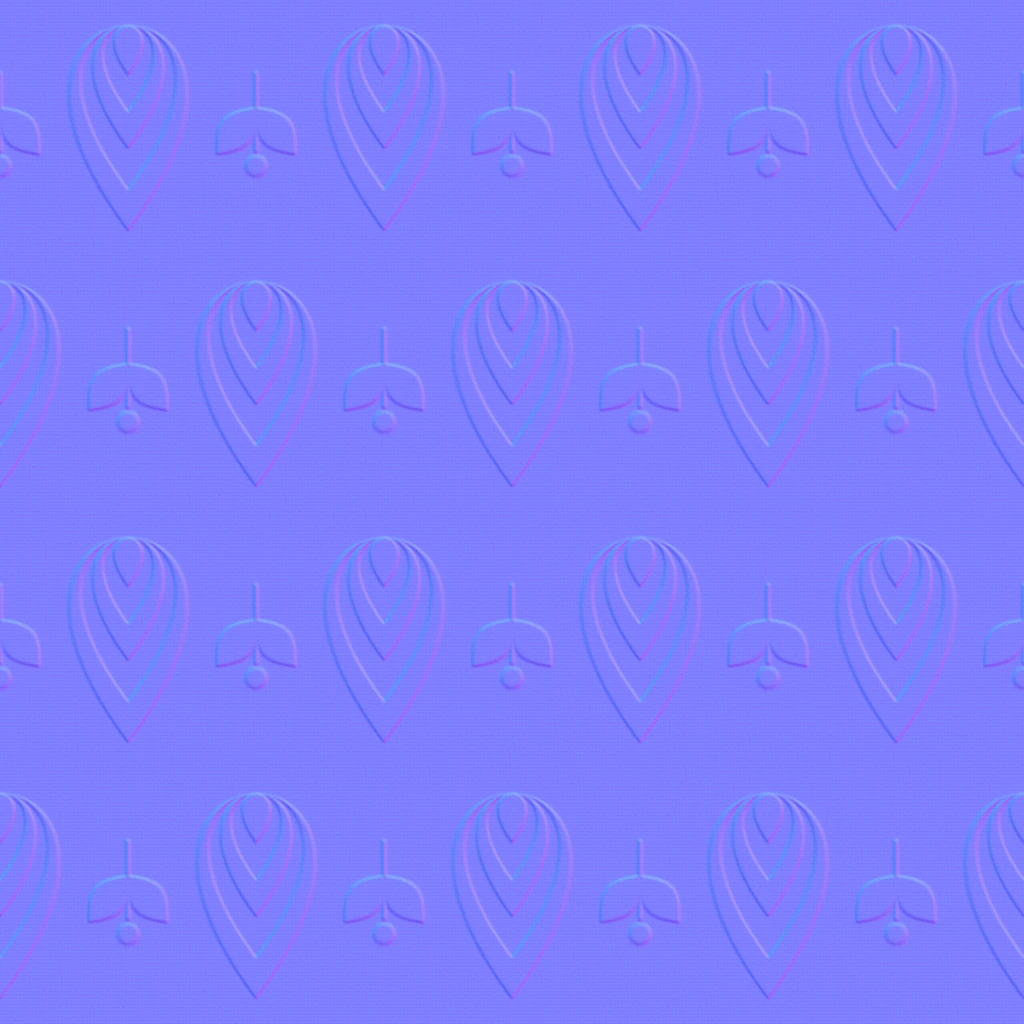
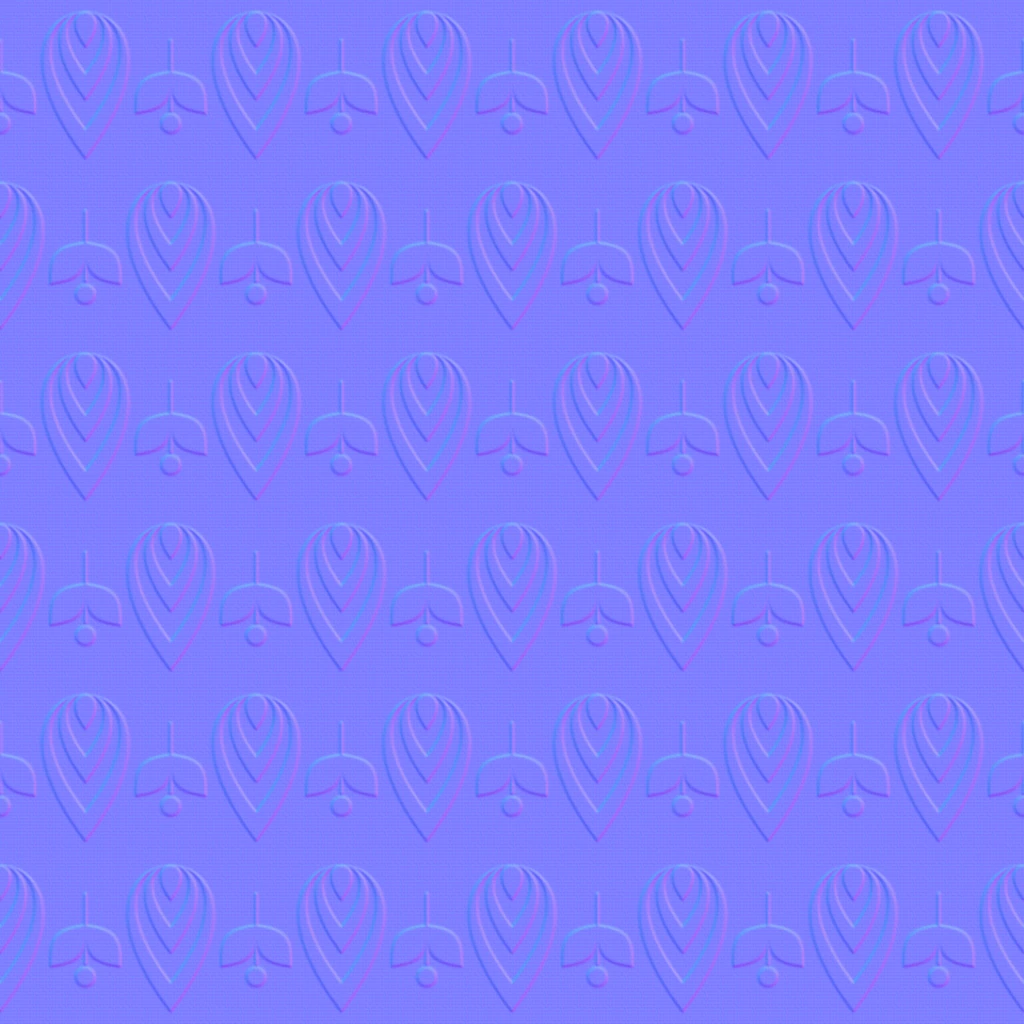
Portraits round 169: the court's figured silk is small, close and less yellow
The figure of the court's silk was large and bright beside the reference's
gowns: 5.5 cm from palmette to palmette, in a gold far off its ground.

- silk_figure.py draws six palmettes on the cloth's 22 cm for four (3.7 cm
  apart), each a little broader and taller, so the figure covers 27 in a
  hundred of the cloth for 20. The two images are written anew.
- The stage shows the gold by a share (cloth.figured.cover, 0.7), the rest
  the ground's colour. The stage's test holds the new line.
- Tried and not kept: three ways to take the crease out of a lady's gown
  on the chest (docs/PORTRAITS.md has them), a broader leaf, a thinner
  figure, the gold at 0.5.

PLACEHOLDER by eye beside two reference gowns. The gauntlet is 22 of 22,
each line as before.

Claude-Session: https://claude.ai/code/session_01BMQBzijafX7vXxEkKbXXMS

diff --git a/tests/portrait.test.ts b/tests/portrait.test.ts
@@ -901,6 +901,7 @@ describe('portraits', { timeout: 20_000 }, () => {
     // image named `_figured`): the figure is the image's covering, and where the covering is less than 1 the
     // stage draws the gold's colour in place of the dye's, with the gold's roughness and share of metal. The
     // rest of the cloth is the plain silk's.
+    // (round 169) Not all of the figure is gold: `cover` of it, the rest the ground between the gold's threads.
     const of = (tex: string) => ({ rough: 0.5, metal: 0, double: false, tex, nmap: '', pos: new Float32Array(9), col: new Float32Array(9).fill(0.5), uv: new Float32Array(6), nrm: new Float32Array(9) });
     const drawn = (tex: string, profile = ENGLAND_1356) => {
       const m = surfaceMaterials(of(tex), null, null, profile)[0]!;
@@ -912,7 +913,9 @@ describe('portraits', { timeout: 20_000 }, () => {
     const k = ENGLAND_1356.cloth!;
     expect([figured.m.roughness, figured.m.color.r, figured.m.ior]).toEqual([plain.m.roughness, plain.m.color.r, plain.m.ior]);
     expect(plain.code).toBe(ShaderLib.physical.fragmentShader);
-    expect(figured.code).toContain('silkFigure = 1.0 - sampledDiffuseColor.a;');
+    expect(figured.code).toContain(`silkFigure = ( 1.0 - sampledDiffuseColor.a ) * ${k.figured.cover.toFixed(3)};`);
+    expect(k.figured.cover).toBeGreaterThan(0.5);
+    expect(k.figured.cover).toBeLessThan(1);
     expect(figured.code).toContain(`vec3( ${k.figured.gold.map(c => c.toFixed(3)).join(', ')} )`);
     expect(figured.code).toContain(`roughnessFactor = mix( roughnessFactor, ${k.figured.rough.toFixed(3)}, silkFigure );`);
     expect(figured.code).toContain(`metalnessFactor = mix( metalnessFactor, ${k.figured.metal.toFixed(3)}, silkFigure );`);

diff --git a/src/portrait/profile.ts b/src/portrait/profile.ts
@@ -88,8 +88,11 @@ export interface StageProfile {
    *  As `cap.light` is for hair. `silk` (round 150: a cloth whose image is named `_silk`): how many times lighter
    *  it is drawn, its roughness and its "specular" (wool and linen: 0.95 and 0.15, a matt cloth). `figured`
    *  (round 156: a silk whose image is named `_figured`): the colour of the gold thread its figure is woven of
-   *  (in linear light, as it is drawn: not multiplied by `silk.tone`'s dye), its roughness and its share of metal. */
-  cloth: null | { wool: number; linen: number; silk: { tone: number; rough: number; specular: number }; figured: { gold: [number, number, number]; rough: number; metal: number } };
+   *  (in linear light, as it is drawn: not multiplied by `silk.tone`'s dye), how much of the figure is that gold
+   *  and not the ground showing between the gold's threads (`cover`, round 169: with all of it gold the figure
+   *  lay on the silk as printed, one bright yellow on every dye; the reference's gold is nearer its ground.
+   *  PLACEHOLDER, by eye), its roughness and its share of metal. */
+  cloth: null | { wool: number; linen: number; silk: { tone: number; rough: number; specular: number }; figured: { gold: [number, number, number]; cover: number; rough: number; metal: number } };
   /** Hair cards, the round strands of a plait and the locks of a head's hair: roughness, "specular", anisotropy
    *  of the glint. */
   cards: { rough: number; specular: number; anisotropy: number };

diff --git a/src/portrait/materials.ts b/src/portrait/materials.ts
@@ -194,13 +194,14 @@ diffuseColor.rgb = mix( vec3( dot( diffuseColor.rgb, vec3( 0.2126, 0.7152, 0.072
 
 /** (round 156) A figured silk (an image named `_figured`, tools/portrait/pipeline/silk_figure.py): where the
  *  image's covering is less than 1 a second thread lies on the cloth, gold. There the cloth has the gold's colour
- *  in place of its dye's, under the weave's own shade, and the gold's roughness and share of metal. */
+ *  in place of its dye's, under the weave's own shade, and the gold's roughness and share of metal: by the share
+ *  `cover` (round 169), the rest of it the ground's. */
 function figuredLook(m: MeshPhysicalMaterial, p: StageProfile, k: NonNullable<StageProfile['cloth']>['figured']): void {
   m.onBeforeCompile = shader => {
     let code = swap(shader.fragmentShader, '#include <color_fragment>', `#include <color_fragment>
 float silkFigure = 0.0;
 #ifdef USE_MAP
-silkFigure = 1.0 - sampledDiffuseColor.a;
+silkFigure = ( 1.0 - sampledDiffuseColor.a ) * ${f(k.cover)};
 diffuseColor.rgb = mix( diffuseColor.rgb, vec3( ${k.gold.map(f).join(', ')} ) * sampledDiffuseColor.rgb, silkFigure );
 #endif`);
     code = swap(code, '#include <roughnessmap_fragment>', `#include <roughnessmap_fragment>\nroughnessFactor = mix( roughnessFactor, ${f(k.rough)}, silkFigure );`);

diff --git a/src/portrait/profile_1356.ts b/src/portrait/profile_1356.ts
@@ -373,7 +373,7 @@ export const ENGLAND_1356: StageProfile = {
     wool: 2.6,
     linen: 1,
     silk: { tone: 2.6, rough: 0.55, specular: 0.5 },
-    figured: { gold: [1.2, 0.8, 0.22], rough: 0.4, metal: 0.2 },
+    figured: { gold: [1.2, 0.8, 0.22], cover: 0.7, rough: 0.4, metal: 0.2 },
   },
   cards: { rough: 0.72, specular: 0.2, anisotropy: 0.3 },
   sheen: {

diff --git a/tools/portrait/pipeline/silk_figure.py b/tools/portrait/pipeline/silk_figure.py
@@ -18,11 +18,16 @@ import sys
 import numpy as np
 from PIL import Image
 src, src_n, out, out_n = sys.argv[1:5]
-# how many palmettes across the tile and how many rows up it (the tile is about 22 cm of cloth on a gown: 5.5 cm
+# how many palmettes across the tile and how many rows up it (the tile is about 22 cm of cloth on a gown: 3.7 cm
 # from palmette to palmette), a palmette's height and half breadth and a leaf's length as shares of that step,
 # and how far the figure stands over the ground (in the normal map's own measure)
-COLS, ROWS = (int(os.environ.get(k, d)) for k, d in (('COLS', '4'), ('ROWS', '4')))
-TALL, WIDE, LEAF, RISE = (float(os.environ.get(k, d)) for k, d in (('TALL', '0.8'), ('WIDE', '0.62'), ('LEAF', '0.24'), ('RISE', '0.5')))
+# (round 169) Six palmettes across and up the tile for four, each a little larger in its step and the sprig a
+# third larger (0.86, 0.68, 0.32 for 0.8, 0.62, 0.24): the figure covers 27 in a hundred of the cloth for 20. At
+# 5.5 cm from palmette to palmette four of them lay across a chest, far apart, as printed on the cloth; the
+# reference's figured gowns have six or seven small figures across a chest, close together. PLACEHOLDER, by eye
+# beside two of its gowns; no record read gives a repeat's measure.
+COLS, ROWS = (int(os.environ.get(k, d)) for k, d in (('COLS', '6'), ('ROWS', '6')))
+TALL, WIDE, LEAF, RISE = (float(os.environ.get(k, d)) for k, d in (('TALL', '0.86'), ('WIDE', '0.68'), ('LEAF', '0.32'), ('RISE', '0.5')))
 silk = np.asarray(Image.open(src).convert('RGBA')).astype(np.float32) / 255
 S = silk.shape[0]
 Z = 2 * S                                       # drawn at twice the size and halved: soft edges

diff --git a/docs/PORTRAITS.md b/docs/PORTRAITS.md
@@ -8466,6 +8466,77 @@ and after below), `runde168_maenner.png` (five more heads of the sample, two of 
 of the sample in the village's dress, after).
 
 
+**Round 169: the court's figured silk is small, close and less yellow** (2026-11-21). The court's sheet beside
+two figured gowns of the reference (the sheet of couples in half figure). There a gown has six or seven small
+figures across the chest, close together, in a gold that is not far from its ground: a woven cloth. Ours had
+four large palmettes across a chest, far apart, in one bright yellow on every dye: printed on.
+
+Looked at first, and not kept (below): a sharp crease in a lady's gown from the armpit to the breast.
+
+What was read. Nothing new. Round 156's records give no repeat's measure and no colour of the gold against its
+ground; the reference's two gowns were measured in the picture (below).
+
+What is changed.
+- **The figure is smaller and closer** (`tools/portrait/pipeline/silk_figure.py`): six palmettes across and up
+  the tile for four, 3.7 cm from palmette to palmette for 5.5, each a little larger in its step and the sprig
+  between them a third larger (`TALL` 0.86, `WIDE` 0.68, `LEAF` 0.32 for 0.8, 0.62, 0.24). The figure covers 27
+  in a hundred of the cloth for 20. The image and its normal map are written anew
+  (`public/portrait/real/cloth_cote_silk_figured.webp`, 169 kB for 137; `_n.webp`, 123 kB for 101).
+- **The gold shows its ground** (`src/portrait/materials.ts` `figuredLook`; `profile.ts`, `cloth.figured.cover`
+  0.7): where the figure is, 0.7 of the cloth is drawn as gold and the rest as the ground, in colour, roughness
+  and share of metal. All of it was gold.
+- Nothing in the builder: who wears the figured silk, the gown's files and their place in the image are as
+  they were.
+
+Measured (in the picture, the chest of a lord in red and of a lady in purple, 600 by 750: the pixels parted
+into ground and figure by how yellow they are; the same on two gowns of the reference, both of one green
+silk, small in their picture):
+
+| | round 168 | now | the reference's two |
+|---|---|---|---|
+| from palmette to palmette | 5.5 cm | 3.7 cm | |
+| the figure's share of the cloth, in the image | 0.20 | 0.27 | |
+| the gold's L: on red; on purple | 41.6; 39.6 | 36.8; 35.8 | 24.8; 25.0 (the ground 11.9; 14.1) |
+| how far the gold is from its ground (the distance in L, a and b): on red; on purple | 34.2; 43.6 | 27.5; 36.7 | 19.0; 17.8 |
+
+Tried and not kept.
+- **A lady's gown without its crease** (the round's first subject). At court a sharp crease runs in the silk
+  from the armpit to the breast, with a small point at its end. Three ways:
+  the gown held off a body with its chest evened as the drape's (`tunic_sim.py`: 25 passes over the chest's
+  front): a woman's breast is flattened by that, the skin came through the gown in patches as large as a hand,
+  and the crease stayed. It is in the gown's folds as draped, not in the hold: with every fold evened forty
+  times the gown is smooth. Round 166's rule from 1 mm for 3: smoother, but 4.28 in a hundred of the court's
+  triangles drawn out in the silk's image for 2.78 (`tests/court.rs` holds 4). The folds from 1 mm evened in
+  their height only, three and eight times, fading out within 4 cm of a hem: the image stays, the crease is
+  fainter but there, and on a girl of ten three places of the cloth at the neck lay under the skin, by 3 and
+  5 mm (`tests/neck.rs`). All taken back; the crease is as it was.
+- The figure with the sprig's leaves at 0.36 of a step: they touch the palmettes, and the figure reads as
+  stripes across the gown. At 0.3 with a palmette of 0.84 and 0.66: thinner than the reference's.
+- The gold at 0.5: 22.1 from its ground on red, nearer the reference's, but on red it is an ochre, not gold.
+  At 0.6 with the thinner figure: looked at, between the two.
+
+**The gauntlet**: 22 of 22 over the whole sample, every line as in round 165 to its last figure, and the
+colour sheet as in round 168 (they read skin of the face).
+
+Honest about it. At a portrait's size a figured gown reads as a woven silk now and not as a print. It is still
+further from its ground than the reference's (27 to 37 for 18 to 19; that measure is rough: at an edge a pixel
+is both, and the reference's gowns are small and of one silk in another light). The figure is still my own
+palmette and sprig as formulas, one figure at one size for everybody, with none of the beasts and birds the
+silks of the records have; 3.7 cm, the figure's sizes and 0.7 are by eye beside two gowns of the reference:
+PLACEHOLDER. That a figure's weft lets the ground show is how the stage draws it, not something read. Where
+front and back of a gown meet the figure does not match, as before, and with more figures there are more of
+those places. The crease on a lady's chest, the gown as a sack and the corners of her neck at the shoulders
+are as they were.
+
+Tests: `tests/portrait.test.ts`, the test of the figured silk changed with the reason in it: it holds the
+stage's line with the gold's share, and the share between a half and one. `npx vitest run tests/portrait` 46 of
+46; `cargo test --release` as a whole 140 of 140 (nothing it reads is changed); typecheck and lint pass, no new
+warning.
+Pictures (project files, `portraits/`): `runde169_herren_vorher_nachher.png` (three lords, before above and
+after below), `runde169_dame_und_gekroente.png` (a lady and two crowned heads, the same), `runde169_hof.png`
+(all 36 of the sample at court, after).
+
+
 **Reference.** The rounds were held against screenshots of Crusader Kings III (Ramon: until that level). Not
 reached. Since round 107 real pictures are set beside ours (above): the face's proportions, the tone of the
 skin and, since round 108, how light and how coloured the clothes are, are close; since round 109 the hair

diff --git a/tools/portrait/pipeline/README.md b/tools/portrait/pipeline/README.md
@@ -79,6 +79,7 @@ Every value is a choice by eye from the rounds against the reference pictures (P
 | cloth images | `python3 fabric_tex.py out.png out_n.png wool 88`, `... linen 128` (veil, wimple). Since round 110 the wool of gown and hoods (`cloth_cote`, `cloth_hood_up`, `cloth_hood_down`) is `NAP=0.75 DEPTH=1.0 MOTT=0.025 python3 -I fabric_tex.py out.png out_n.png wool 160`: nearly twice the threads across the image, more of the nap over the weave, a flatter relief and less than half the mottling (the defaults 0.45, 1.5, 0.06 write the old image: lifted by `cloth.wool`, it read as sackcloth with stains). The linen under the gown, `cloth_smock`: `python3 -I fabric_tex.py out.png out_n.png linen 176`. Packed as WebP (colour 92, normal 90) |
 | the court's silk `cloth_cote_silk` (round 150; `DressSet::gown_image`) | `DEPTH=0.4 MOTT=0.012 python3 -I fabric_tex.py out.png out_n.png silk 320` (the kind `silk`, new: a plain weave with no nap, a fifth of the threads' own shades and little contrast between the threads; with all of the shades the cloth was a plaid). Packed as WebP (colour 92, normal 90). The stage draws an image named `_silk` smoother and with a glint (`src/portrait/profile.ts`, `cloth.silk`). All values by eye: PLACEHOLDER. |
 | the court's figured silk `cloth_cote_silk_figured` (round 156; `DressSet::gown_figured`) | The row above's two images, then `python3 -I silk_figure.py out.png out_n.png cloth_cote_silk_figured.png cloth_cote_silk_figured_n.png`: palmettes in rows set off by half a step and a sprig of two leaves between them, written into the image's covering (1 ground, 0 gold thread; 20 in a hundred of the cloth) and raised a little in the normal map. Packed as WebP by `pack_real.py` (colour 92 with the covering exact, normal 90). The stage draws the gold where the covering is less than 1 (`src/portrait/materials.ts` `figuredLook`, `profile.ts` `cloth.figured`). After three museums' records of Italian silks of the 14th century (the script's head); the beasts and birds they have are not drawn, and every measure is by eye: PLACEHOLDER. |
+| the figured silk smaller and closer (round 169): `cloth_cote_silk_figured` and its normal map written anew | the call of the row above; the script's numbers are six palmettes across and up the tile for four (`COLS`, `ROWS`), `TALL` 0.86, `WIDE` 0.68, `LEAF` 0.32 for 0.8, 0.62, 0.24: 3.7 cm from palmette to palmette, the figure 27 in a hundred of the cloth. With `COLS=4 ROWS=4 TALL=0.8 WIDE=0.62 LEAF=0.24` it writes round 156's image to the byte. Tried and dropped: `LEAF=0.36 WIDE=0.7` (stripes), `LEAF=0.3 WIDE=0.66 TALL=0.84` (thin). The stage draws 0.7 of the figure as gold (`profile.ts`, `cloth.figured.cover`) |
 | the court's fine linen `cloth_veil_linen_fine` and `cloth_wimple_fine` (round 153; `DressSet::veil_image`, `wimple_image`) | `DEPTH=0.5 MOTT=0.02 python3 -I fabric_tex.py out.png out_n.png fine 240` (the kind `fine`, new: the linen's weave with 240 threads to the image for 48, a third of the threads' own shades and less contrast between the threads), made small to 512 pixels (Lanczos) and packed as WebP (colour 92, normal 90; 44 kB and 3 kB): one image under both names, as the village's linen is one image under the veil's and the wimple's (the builder and the tests find a cloth by its image's name, and the stage knows linen by `_veil` and `_wimple`). At 512 pixels the threads are gone from the image and from its relief: what is left is the mottling. Tried and dropped: the image at its 1 024 pixels (210 kB and 159 kB each, for a cloth that shows no thread in a picture). All values by eye: PLACEHOLDER. |
 | lash line `skin_lash.txt` (rounds 65, 68) | `python3 -I skin_lash.py $B Eyelashes01.txt skin_lash.txt` (per vertex of the head how much of it lies on the lid's edge where the lashes grow: 1 on the upper lid, `LOWER=0.5` on the lower; in full up to 3.5 mm off the eyeball, gone at 11 mm, `LINE=0.035,0.11`: since round 68, a line about twice as broad on the upper lid; until then `LINE=0.025,0.05`, which still writes the file of rounds 65 to 67 number for number. The head vertices that MakeHuman's lashes are bound to are the lids' inner rim, which lies against the eyeball and is hidden: the line goes outwards from there over `RINGS=5` rings of vertices) |
 | lips `skin_lip.txt` (round 66) | `python3 -I skin_lip.py $B young_lightskinned_female_diffuse.png skin_lip.txt` (the image: MakeHuman's skin `young_caucasian_female`, 2048 pixels, CC0. Per vertex of the head how much of it is lip, and how much of that upper lip: lip where the image's paint is redder than skin, `RED=14,24` in CIELAB a* (its skin 8 to 11, its lips 25 to 40), inside `BOX=0.5,6.4,6.76,0.8` round the mouth (the nostrils' red lies above it), on the face's part of the image `ISLAND=0.62,0.25,0.75` (the mouth's inside is painted elsewhere); upper lip above the middle between the two edges where the lips turn inward, `SEAM` in the script, the builder's `LIP_SEAM`. The young woman's image is clean there; the young man's and the old man's have broken paint in the middle of the mouth) |
